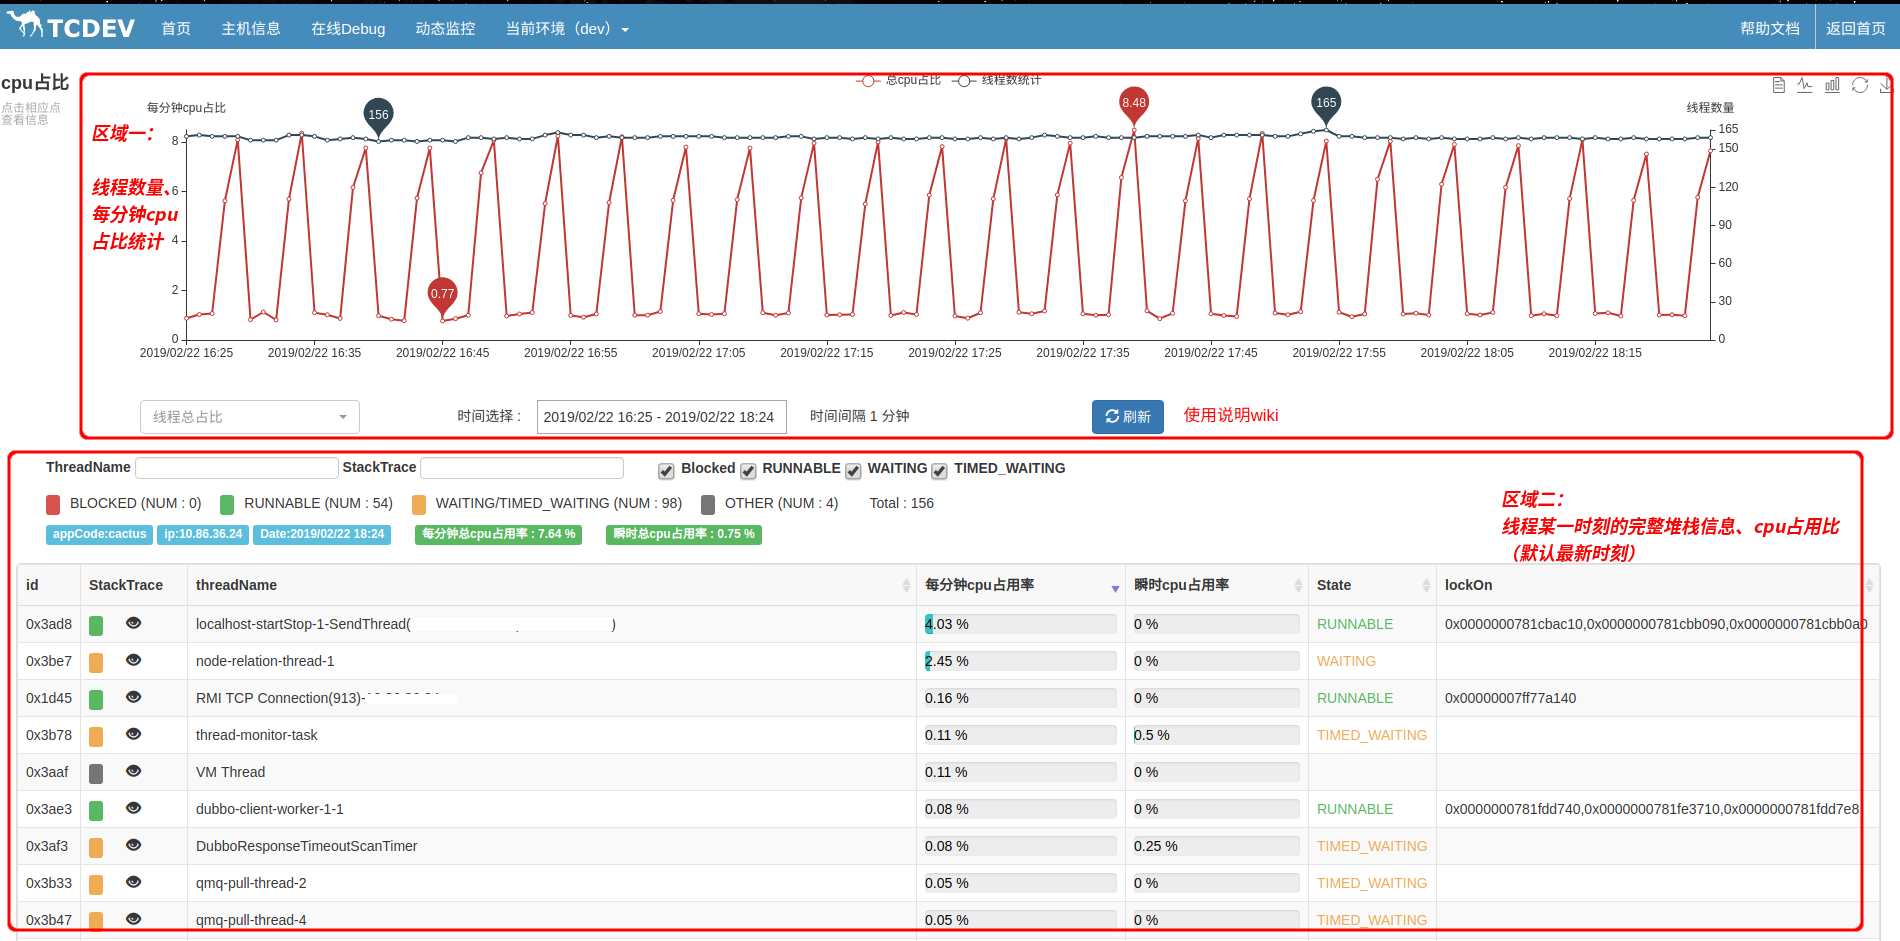
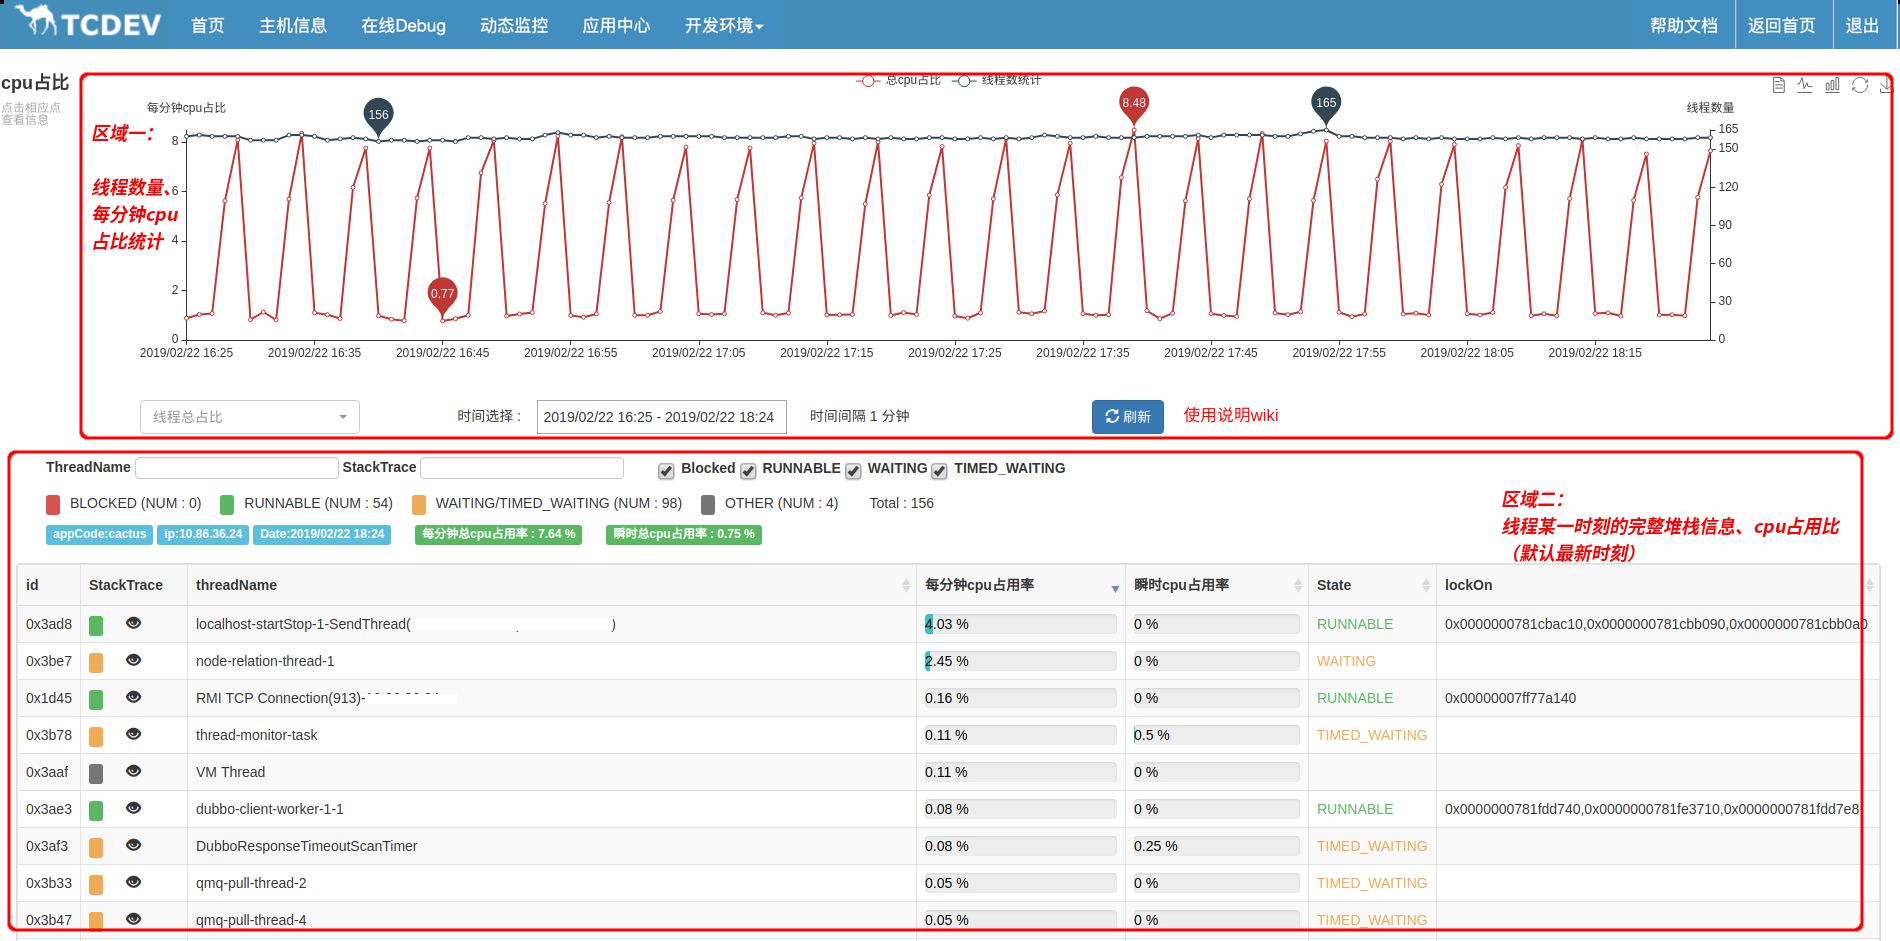
修改jstack输出为线程级cpu监控，图片整理

Changed region(s): [[0.0, 0.0, 1.0, 0.0616]]

diff --git a/bistoury-ui/src/main/webapp/machine.html b/bistoury-ui/src/main/webapp/machine.html
@@ -49,7 +49,7 @@
                             <li role="presentation" id="config-info-menu"><a href="#">文件信息</a></li>
                             <li role="presentation" id="jvm-info-menu"><a href="#">jvm信息</a></li>
                             <li role="presentation" id="thread-info-menu"><a href="#">Thread Dump</a></li>
-                            <li role="presentation" id="jstack-dump-menu"><a>jstack输出</a></li>
+                            <li role="presentation" id="jstack-dump-menu"><a>线程级CPU监控</a></li>
                         </ul>
                     </div>
                 </nav>

diff --git a/bistoury-ui/src/main/webapp/html/jstack-dump.html b/bistoury-ui/src/main/webapp/html/jstack-dump.html
@@ -3,7 +3,7 @@
 
 <head>
     <meta charset="UTF-8">
-    <title>jstack 信息界面</title>
+    <title>线程级CPU监控</title>
     <link rel="shortcut icon" href="/favicon.ico">
     <link rel="stylesheet" href="../css/bootstrap.min.css?version=2.0.0">
     <link rel="stylesheet" href="../css/bootstrap-treeview.css?version=2.0.0">

diff --git a/docs/cn/debug.md b/docs/cn/debug.md
@@ -18,6 +18,7 @@ Arthas的watch命令让我们可以观察函数的入参、返回值、异常等
 ![private token](../image/private_token.png)
 
 - 选择需要调试的应用名，再选择需要调试的机器，然后点击【debug】按钮，进入已加载类列表。
+![debug](../image/debug-main.png)
 - 找到需要调试的类（支持搜索），点击【调试】按钮进入调试页面
 ![debug class list](../image/debug_class_list.png)
 
@@ -50,6 +51,7 @@ Arthas的watch命令让我们可以观察函数的入参、返回值、异常等
 
 **警告：**
 为了防止用户调用自定义方法执行业务逻辑方法，条件断点中仅支持调用如下方法：
+
 ==白名单==: equals, length, valueOf, toString, hashCode, compareTo, size, count
 
 ### DEMO
@@ -123,6 +125,12 @@ public class ForTest {
         int a5 = f + g;
         int a6 = g + h;
         int a7 = g + h;
+
+        Map<String,String> map=new HashMap<>();
+        map.put("key","value");
+        List<String> list=new ArrayList<>();
+        list.add("tcdev")
+
         System.out.println(a1 + a2);
     }
   
@@ -237,7 +245,9 @@ public class Address {
 针对上面的测试类，如果我们的断点打在 public void arguments(int a, int b, int c, int d, int f, int g, int h, UserForTest user) 方法的最后一行的println语句上的话，那么下面的Spring EL表达式为true：
 
 ```java
-String el = "localVariables[a] == 1 && " +
+String el ="localVariables[list][0].equals('tcdev') &&" +
+        "localVariables[map]['key'].equals('value') && " +
+        "localVariables[a] == 1 && " +
         "localVariables[b] == 2 && " +
         "localVariables[c] == 3 && " +
         "localVariables[d] == 4 && " +

diff --git a/docs/cn/monitor.md b/docs/cn/monitor.md
@@ -13,7 +13,9 @@
 
 - 进入动态监控页面，初次使用时请先点击下方链接设置gitlab private token，若不设置，则添加断点时的代码将会通过反编译产生。目前仅支持gitlab，点击输入框下方对应链接获取，然后点击保存设置private token。
 ![private token](../image/private_token.png)
-- 选择需要添加监控的应用名，再选择需要在哪台机器上添加监控，然后点击【选择】按钮，进入已加载类列表。
+- 选择需要添加监控的应用名，再选择需要在哪台机器上添加监控，然后点击【选择】按钮。
+![monitor_entry](../image/monitor_entry.png)
+- 进入已加载类列表。
 ![monitor_class_list](../image/monitor_class_list.png)
 - 找到需要添加监控的类（注：仅支持Java代码添加监控），点击进入监控页面。
 - 找到需要添加监控的方法，在其中任意语句添加标记，点击前方的行号标记所在行。
